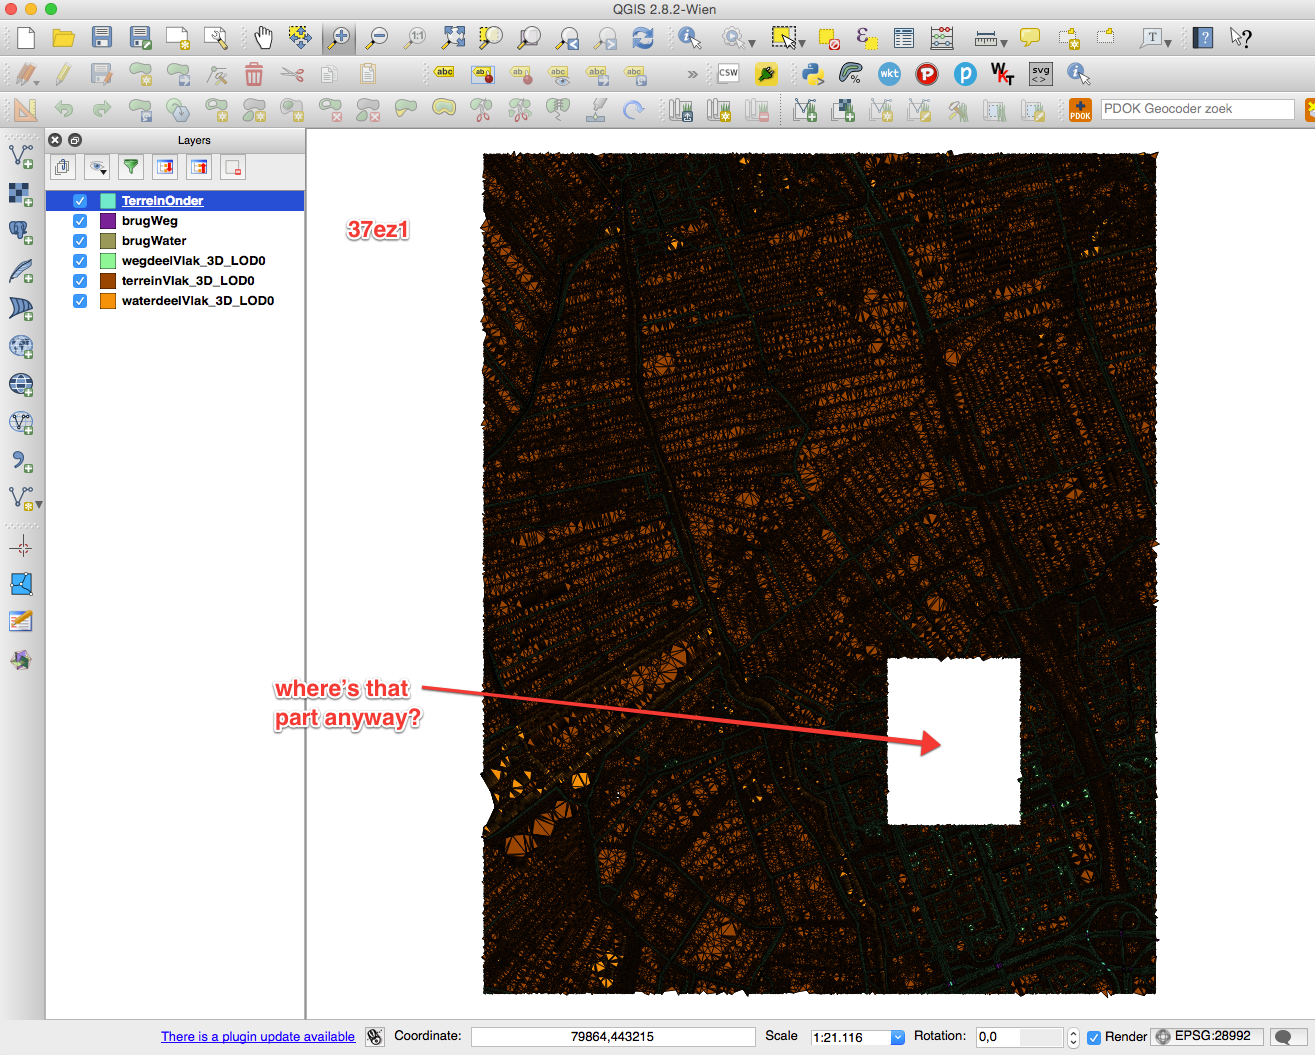
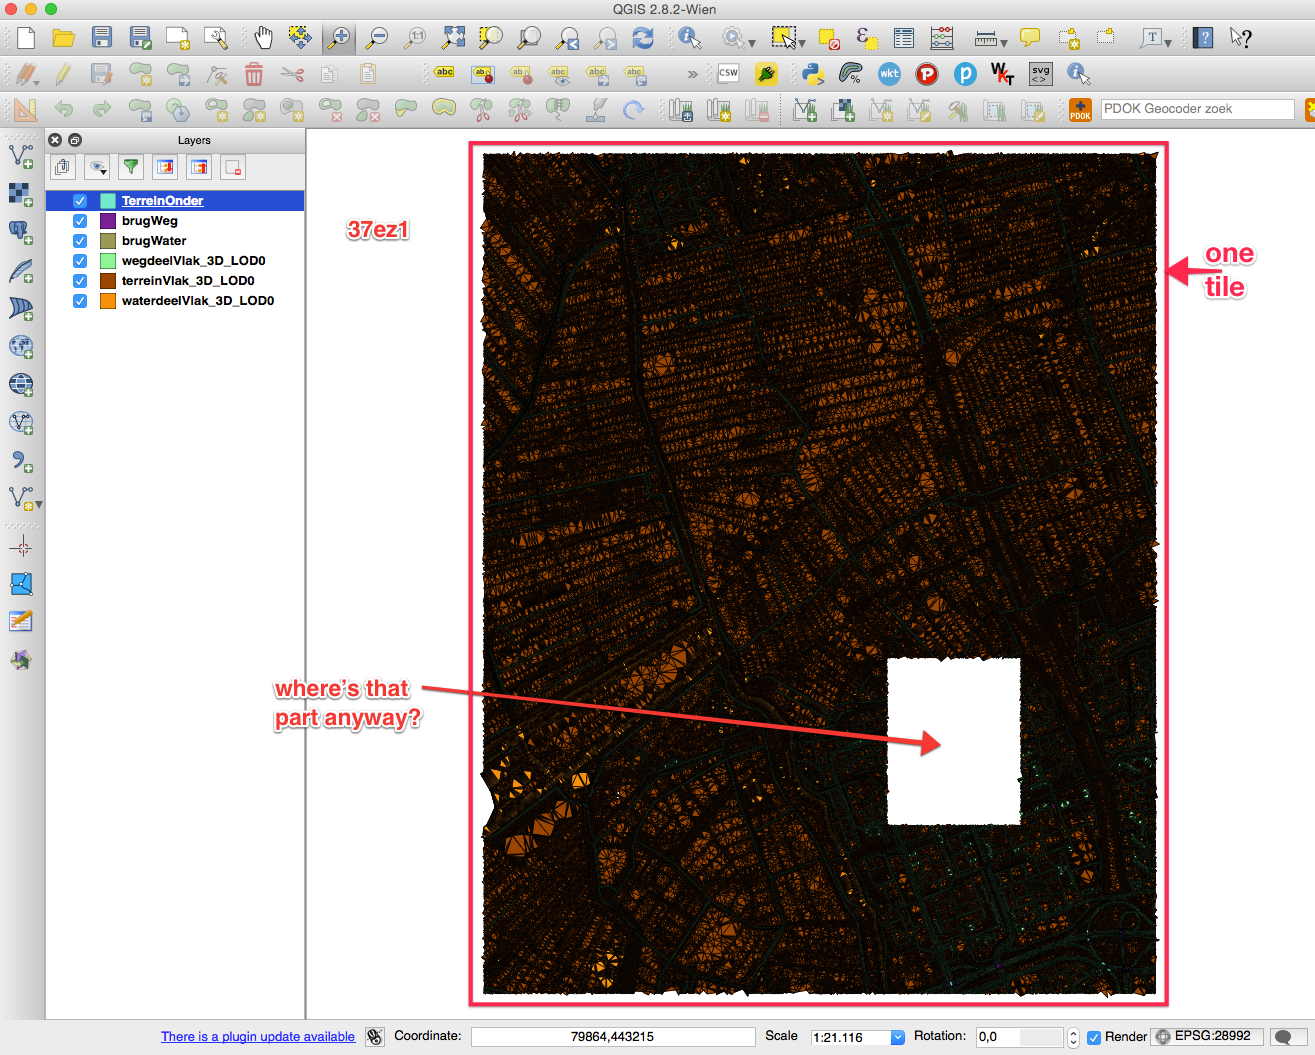
made it clear that parts of tiles are missing, not whole tiles

Changed region(s): [[0.343, 0.1213, 0.9665, 0.9706]]

diff --git a/reports/comments.md b/reports/comments.md
@@ -13,9 +13,10 @@ Luckily it's always one after the other, so automatic cleaning is easy.
 All my results below implies that I first jettison the duplicates.
 
 
-## often big parts are missing 
+## often big parts of tiles are missing 
 
-eg the rectangular areas in tile `37ez1`. Why is that? Is it "normal"?
+eg the rectangular areas in tile `37ez1` (observe that this is not the whole tile, only a rectangular part of one).
+Why is that? Is it "normal"?
 
 ![](2015-07-24 at 09.56.png)
 
@@ -112,7 +113,7 @@ What is the rule to decide where to split input polygons?
 I've tried 3 tiles, and *zero* building is valid.
 The good news is that they all have exactly *one* error: all their faces have the wrong orientation (normals are pointing inwards).
 All the rest is okay; thus easy to solve.
-That could be an [OpenFileGDB](http://www.gdal.org/drv_openfilegdb.html) problem though.
+That could be an [OpenFileGDB](http://www.gdal.org/drv_openfilegdb.html) issue though, ie perhaps the reader flips all the polygons (but I doubt it, to be checked in ArcGIS).
 
 ![](2015-08-05 at 20.20.png)
 
